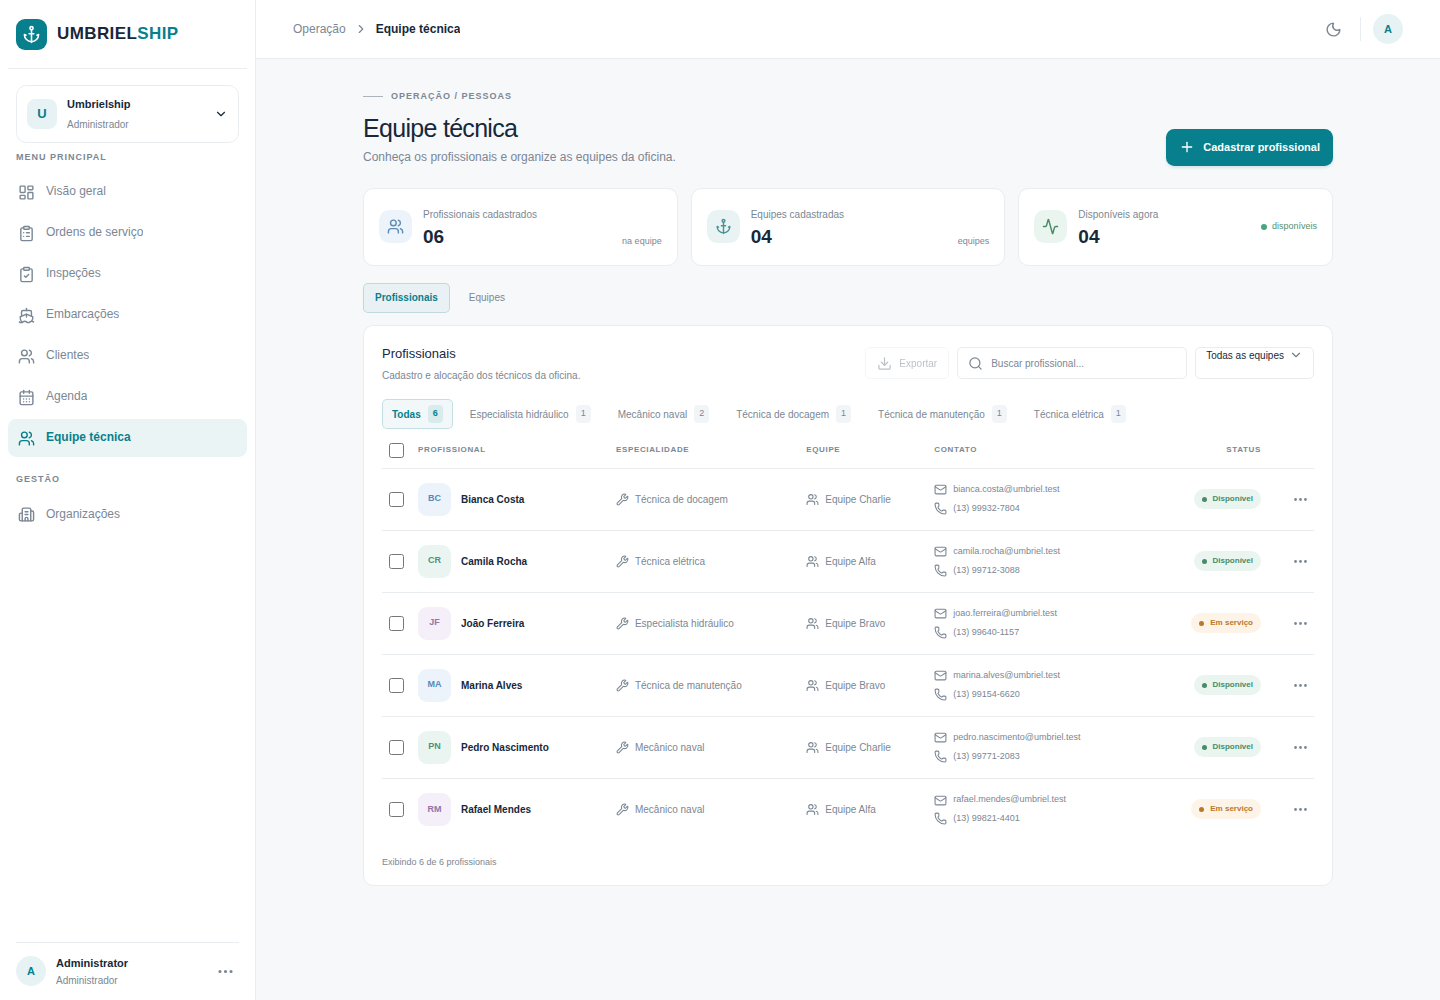
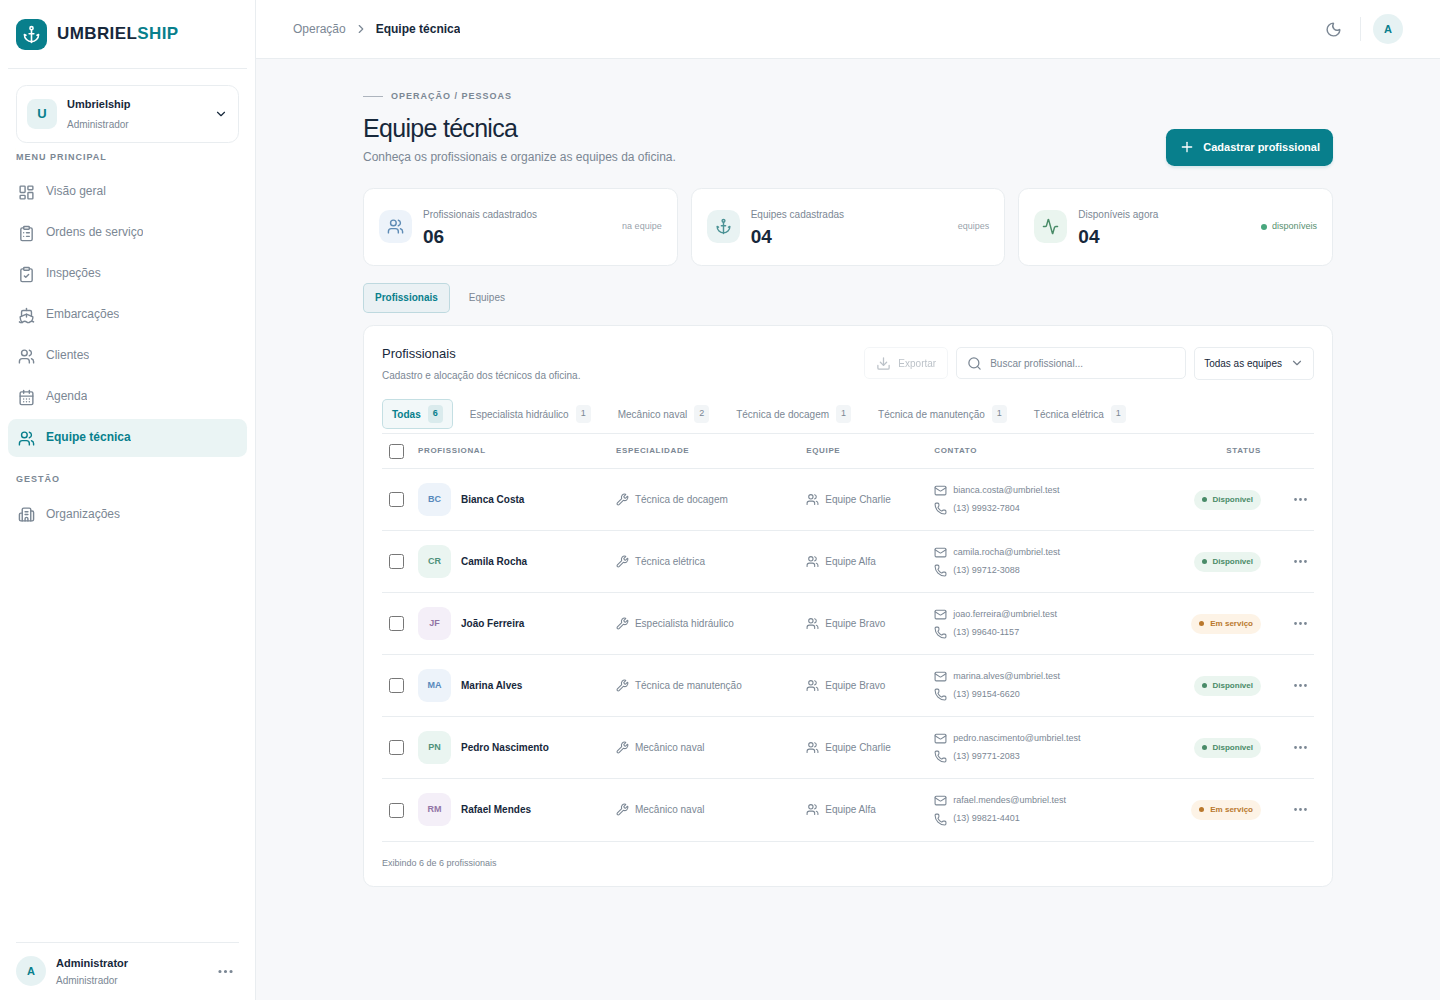
fix(workforce): centre the team filter and retake the pictures
The team filter takes the app's select alignment, so its label and
chevron sit centred as the mareos draws them; the six pictures are
retaken at this commit.

diff --git a/web/src/package/workforce/staff/staff-list/staff-list.ts b/web/src/package/workforce/staff/staff-list/staff-list.ts
@@ -4,7 +4,14 @@ import { toSignal } from '@angular/core/rxjs-interop';
 import { ActivatedRoute, Router } from '@angular/router';
 
 import { NgIcon, provideIcons } from '@ng-icons/core';
-import { lucideActivity, lucideAnchor, lucideDownload, lucidePlus, lucideSearch, lucideUsers } from '@ng-icons/lucide';
+import {
+  lucideActivity,
+  lucideAnchor,
+  lucideDownload,
+  lucidePlus,
+  lucideSearch,
+  lucideUsers,
+} from '@ng-icons/lucide';
 import { map, Observable } from 'rxjs';
 
 import { AuthenticationService } from '../../../identity/authentication/authentication.service';
@@ -50,7 +57,14 @@ type Tab = 'profissionais' | 'equipes';
   selector: 'staff-list',
   imports: [NgIcon, Button, Confirmation, Metric, Sheet, Skeleton, StaffForm, StaffTable, TeamForm, TeamTable],
   viewProviders: [
-    provideIcons({ lucideActivity, lucideAnchor, lucideDownload, lucidePlus, lucideSearch, lucideUsers }),
+    provideIcons({
+      lucideActivity,
+      lucideAnchor,
+      lucideDownload,
+      lucidePlus,
+      lucideSearch,
+      lucideUsers,
+    }),
   ],
   templateUrl: './staff-list.html',
 })

diff --git a/web/src/package/workforce/staff/staff-list/staff-list.html b/web/src/package/workforce/staff/staff-list/staff-list.html
@@ -133,7 +133,7 @@
           <label class="sr-only" for="team-filter">Filtrar por equipe</label>
           <select
             id="team-filter"
-            class="h-[33px] max-w-[190px] rounded-[5px] border border-border bg-card px-[9px] py-0 text-[10px] leading-[31px] text-foreground"
+            class="flex h-[33px] w-full max-w-[190px] items-center justify-between gap-2 rounded-[5px] border border-border bg-card px-[9px] text-[10px] text-foreground sm:w-auto"
             [value]="team()"
             (change)="team.set($any($event.target).value)"
           >
